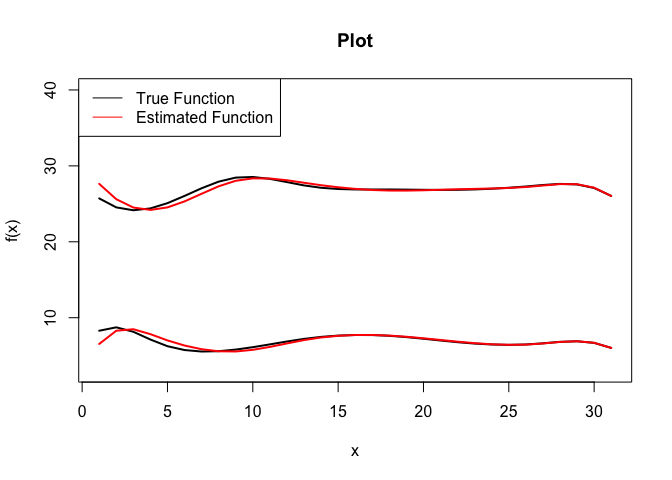
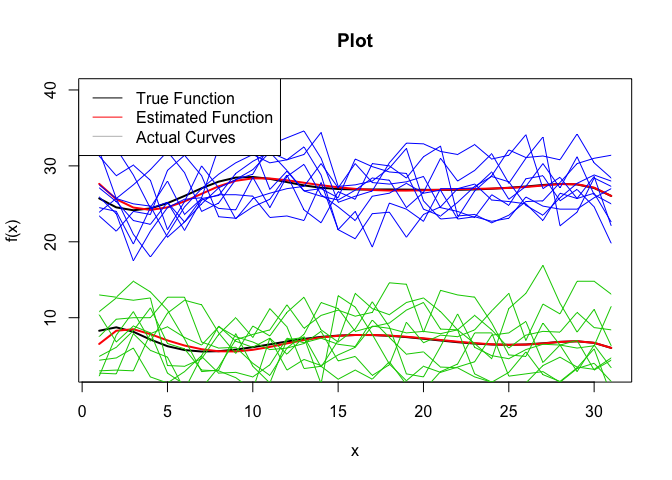
23rd Commit

diff --git a/README.md b/README.md
@@ -62,7 +62,10 @@ variational inference based approach.
     vs estimated curves after fitting the model
   - **plot\_params**: List of parameters corresponding to
     characteristics of the plot. Must include vectors xlim and ylim
-    corresponding to the x and y limits of the plot.
+    corresponding to the x and y limits of the plot. If NULL is
+    supplied, plot function defaults are used. Must include boolean
+    show\_curves. If true the actual curves are shown with diffent
+    colors.
 
 #### Return Value
 
@@ -107,7 +110,7 @@ generation, modelling and evaluation parameters specified by the user.
     contains the vector true cluster assignments as referenced above.
   - **number\_of\_simulations**: The number of simulations
   - **save\_path**: The file path to save the results from the
-    simualations
+    simualations. If NULL, the results are not saved.
 
 #### Return Value
 
@@ -150,6 +153,7 @@ draw = FALSE
 plot_params = list()
 plot_params$xlim = NULL 
 plot_params$ylim = c(1, 6)
+plot_params$show_curves = FALSE 
 
 #Fit the model
 model = funcslustVI(x, Y, K, true_cluster_assignments, init, nbasis, convergence_threshold, max_iterations, gamma_dist_config_matrix, verbose, draw, plot_params)
@@ -158,7 +162,7 @@ model = funcslustVI(x, Y, K, true_cluster_assignments, init, nbasis, convergence
 cluster_assignemnts = model$cluster_assignments
 
 print(cluster_assignemnts)
-#>  [1] 1 1 1 1 1 1 1 1 1 1 2 2 2 2 2 2 2 2 2 2 1 3 3 3 3 3 3 3 3 3
+#>  [1] 3 3 3 3 3 3 3 3 3 3 2 2 2 2 2 2 2 2 2 2 1 1 1 1 1 1 1 1 1 3
 ```
 
 This is an example which shows how to use the funclustVI package to
@@ -166,7 +170,9 @@ cluster real data including in the package. The data corresponds to the
 daily tempuratures in Vancouver and Toronto over the month of July over
 the 10 year period 1994 to 2003. Since draw = Traw a plot is generated
 showing the true function vs the estimated function for each cluster.
-Refer to above function definitions above for detailed requirements.
+Since show\_curves is TRUE, the plot includes the actual curves with
+differing colors. Refer to above function definitions above for detailed
+requirements.
 
 ``` r
 #Data Parameters
@@ -187,6 +193,7 @@ draw = TRUE
 plot_params = list()
 plot_params$xlim = NULL
 plot_params$ylim = c(3, 40)
+plot_params$show_curves = TRUE
 
 #Fit the model 
 model = funcslustVI(x, Y, K, true_cluster_assignments, init, nbasis, convergence_threshold, max_iterations, gamma_dist_config_matrix, verbose, draw, plot_params)
@@ -201,8 +208,8 @@ function definitions for detailed requirements.
 library(funclustVI)
 
 #Initializations
-number_of_simulations = 30
-save_path = "~/Desktop/results.csv"
+number_of_simulations = 5
+save_path = NULL
 
 #Data Parameters
 x = seq(from=0,to=pi/3, length = 100)
@@ -245,6 +252,7 @@ model_params$draw = draw
 plot_params = list()
 plot_params$xlim = NULL
 plot_params$ylim = c(1, 6)
+plot_params$show_curves = FALSE 
 model_params$plot_params = plot_params
 
 #Evaluation parameter list 
@@ -259,69 +267,19 @@ simulate(data_params, model_params, eval_func_list, number_of_simulations, save_
 #> seed  3 : mismatch  =  3  vmeasure  =  0.9192316  
 #> seed  4 : mismatch  =  8  vmeasure  =  0.8322171  
 #> seed  5 : mismatch  =  6  vmeasure  =  0.8641855  
-#> seed  6 : mismatch  =  8  vmeasure  =  0.8365829  
-#> seed  7 : mismatch  =  3  vmeasure  =  0.9305507  
-#> seed  8 : mismatch  =  5  vmeasure  =  0.8996935  
-#> seed  9 : mismatch  =  6  vmeasure  =  0.8862312  
-#> seed  10 : mismatch  =  1  vmeasure  =  0.9701912  
-#> seed  11 : mismatch  =  3  vmeasure  =  0.9305507  
-#> seed  12 : mismatch  =  5  vmeasure  =  0.8850621  
-#> seed  13 : mismatch  =  5  vmeasure  =  0.8996935  
-#> seed  14 : mismatch  =  6  vmeasure  =  0.8641855  
-#> seed  15 : mismatch  =  6  vmeasure  =  0.8705214  
-#> seed  16 : mismatch  =  6  vmeasure  =  0.8862312  
-#> seed  17 : mismatch  =  6  vmeasure  =  0.8622702  
-#> seed  18 : mismatch  =  7  vmeasure  =  0.8497806  
-#> seed  19 : mismatch  =  2  vmeasure  =  0.9487883  
-#> seed  20 : mismatch  =  13  vmeasure  =  0.7831589  
-#> seed  21 : mismatch  =  2  vmeasure  =  0.9405073  
-#> seed  22 : mismatch  =  2  vmeasure  =  0.9487883  
-#> seed  23 : mismatch  =  3  vmeasure  =  0.9192316  
-#> seed  24 : mismatch  =  2  vmeasure  =  0.9487883  
-#> seed  25 : mismatch  =  0  vmeasure  =  1  
-#> seed  26 : mismatch  =  2  vmeasure  =  0.9405073  
-#> seed  27 : mismatch  =  4  vmeasure  =  0.9011219  
-#> seed  28 : mismatch  =  12  vmeasure  =  0.8030704  
-#> seed  29 : mismatch  =  3  vmeasure  =  0.9305507  
-#> seed  30 : mismatch  =  10  vmeasure  =  0.8226345  
-#> Average  mismatch  =  4.933333 
-#> Average  vmeasure  =  0.8958381
+#> Average  mismatch  =  5.2 
+#> Average  vmeasure  =  0.8832899
 #> $result_matrix
-#>       [,1]      [,2]
-#>  [1,]    5 0.8996935
-#>  [2,]    4 0.9011219
-#>  [3,]    3 0.9192316
-#>  [4,]    8 0.8322171
-#>  [5,]    6 0.8641855
-#>  [6,]    8 0.8365829
-#>  [7,]    3 0.9305507
-#>  [8,]    5 0.8996935
-#>  [9,]    6 0.8862312
-#> [10,]    1 0.9701912
-#> [11,]    3 0.9305507
-#> [12,]    5 0.8850621
-#> [13,]    5 0.8996935
-#> [14,]    6 0.8641855
-#> [15,]    6 0.8705214
-#> [16,]    6 0.8862312
-#> [17,]    6 0.8622702
-#> [18,]    7 0.8497806
-#> [19,]    2 0.9487883
-#> [20,]   13 0.7831589
-#> [21,]    2 0.9405073
-#> [22,]    2 0.9487883
-#> [23,]    3 0.9192316
-#> [24,]    2 0.9487883
-#> [25,]    0 1.0000000
-#> [26,]    2 0.9405073
-#> [27,]    4 0.9011219
-#> [28,]   12 0.8030704
-#> [29,]    3 0.9305507
-#> [30,]   10 0.8226345
+#>      [,1]      [,2]
+#> [1,]    5 0.8996935
+#> [2,]    4 0.9011219
+#> [3,]    3 0.9192316
+#> [4,]    8 0.8322171
+#> [5,]    6 0.8641855
 #> 
 #> $simulation_length
-#> Time difference of 3.030097 mins
+#> Time difference of 35.3349 secs
 #> 
 #> $eval_metric_avg_vector
-#> [1] 4.9333333 0.8958381
+#> [1] 5.2000000 0.8832899
 ```
